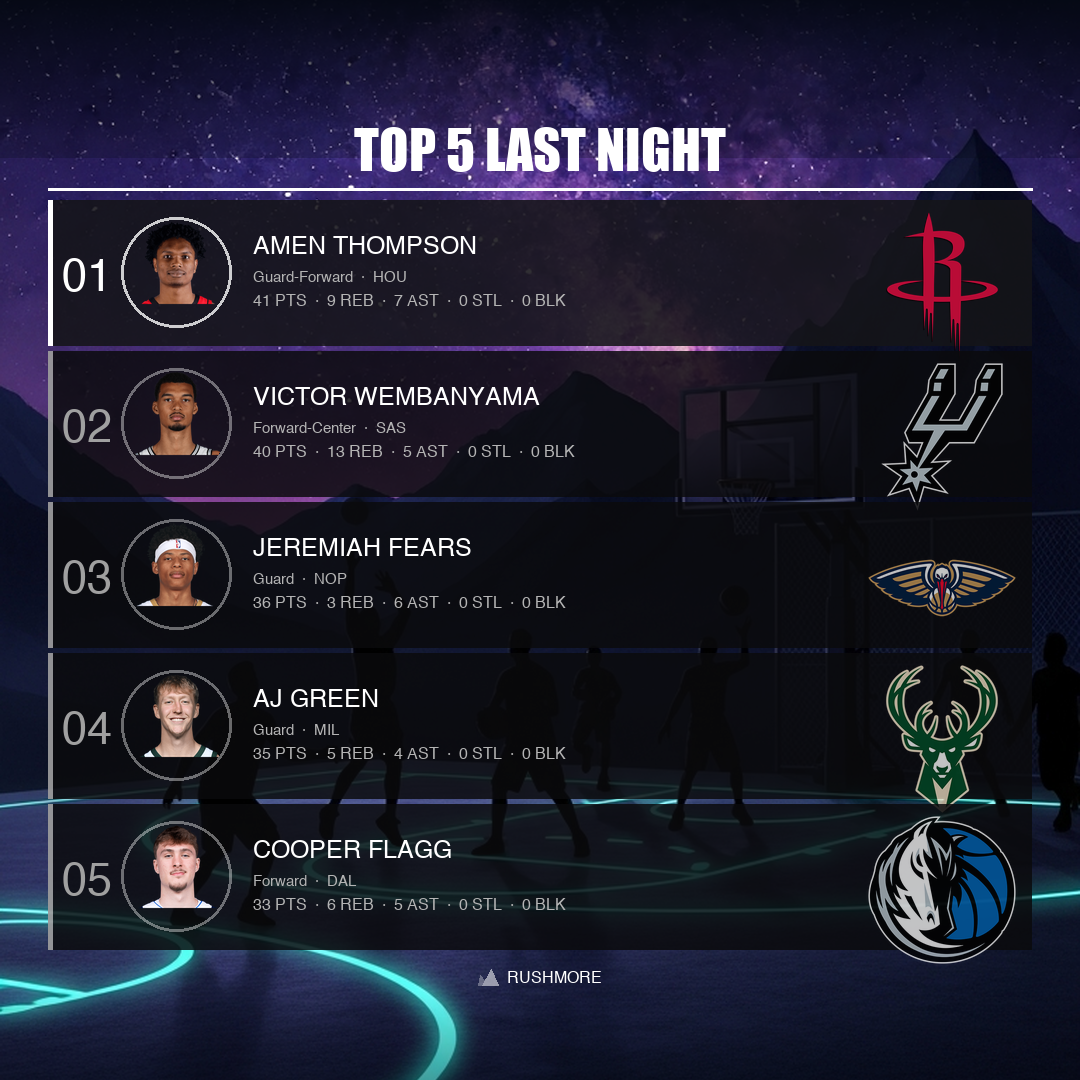
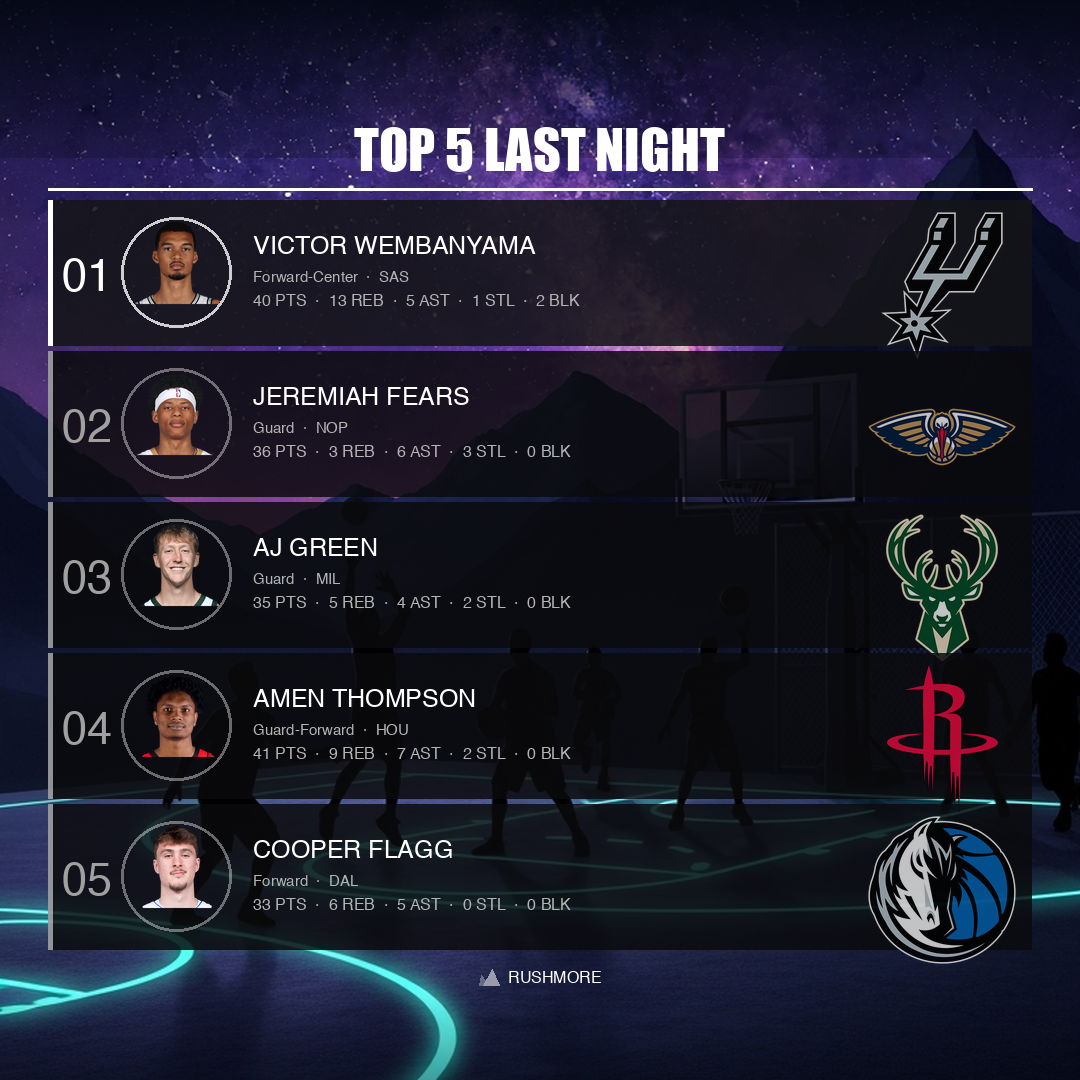
content: daily cards 2026-04-10
https://claude.ai/code/session_01B1uBYk9UE3q9KeRoha7M4V

diff --git a/output/2026-04-10/captions.md b/output/2026-04-10/captions.md
@@ -1,19 +1,26 @@
 # Daily Content – 2026-04-10
 
 ## Top 5 Last Night
-1. Amen Thompson – 41pts 9reb 7ast (HOU)
-2. Victor Wembanyama – 40pts 13reb 5ast (SAS)
-3. Jeremiah Fears – 36pts 3reb 6ast (NOP)
-4. AJ Green – 35pts 5reb 4ast (MIL)
-5. Cooper Flagg – 33pts 6reb 5ast (DAL)
+1. Victor Wembanyama – 40pts 13reb 5ast 1stl 2blk (SAS)
+2. Jeremiah Fears – 36pts 3reb 6ast 3stl 0blk (NOP)
+3. AJ Green – 35pts 5reb 4ast 2stl 0blk (MIL)
+4. Amen Thompson – 41pts 9reb 7ast 2stl 0blk (HOU)
+5. Cooper Flagg – 33pts 6reb 5ast 0stl 0blk (DAL)
 
 ---
 
 ## Instagram
-Amen Thompson dropped 41/9/7 last night 🔥 Wemby right behind with 40/13/5. Last night was ELITE. #NBA #Basketball #NBAHighlights #TopPerformers #NBAStats #LastNight #HoopsTalk
+Wemby went for 40/13, Amen dropped 41, and Flagg kept cooking. Last night had NO business going this hard. 🏀 #NBA #Basketball #NBAHighlights #TopPerformers #NBAStats #LastNight #HoopNight
 
 ## TikTok
-41 points. 9 rebounds. 7 assists. Amen Thompson said THIS is my night 👑 Wemby dropped 40 and still came in second — who's your MVP? 👇 #NBA #AmenThompson #NBAHighlights #Basketball #HoopsTok
+Amen Thompson 41pts. Wembanyama 40pts 13reb. Cooper Flagg doing Cooper Flagg things. Last night was UNREAL 🔥 Who's your MVP from last night? 👇 #NBA #NBAHighlights #WembyCam #CooperFlagg #AmenThompson #Basketball
 
 ## X (Twitter)
-Thompson: 41/9/7. Wemby: 40/13/5. Fears: 36/3/6. Last night's top 5 did not disappoint. #NBA #NBAStats
+Last night's top performers:
+• Amen Thompson — 41/9/7 (HOU)
+• Wembanyama — 40/13/5 (SAS)
+• Fears — 36/3/6 (NOP)
+• AJ Green — 35/5/4 (MIL)
+• Cooper Flagg — 33/6/5 (DAL)
+
+Different night, same story. #NBA #NBAStats
